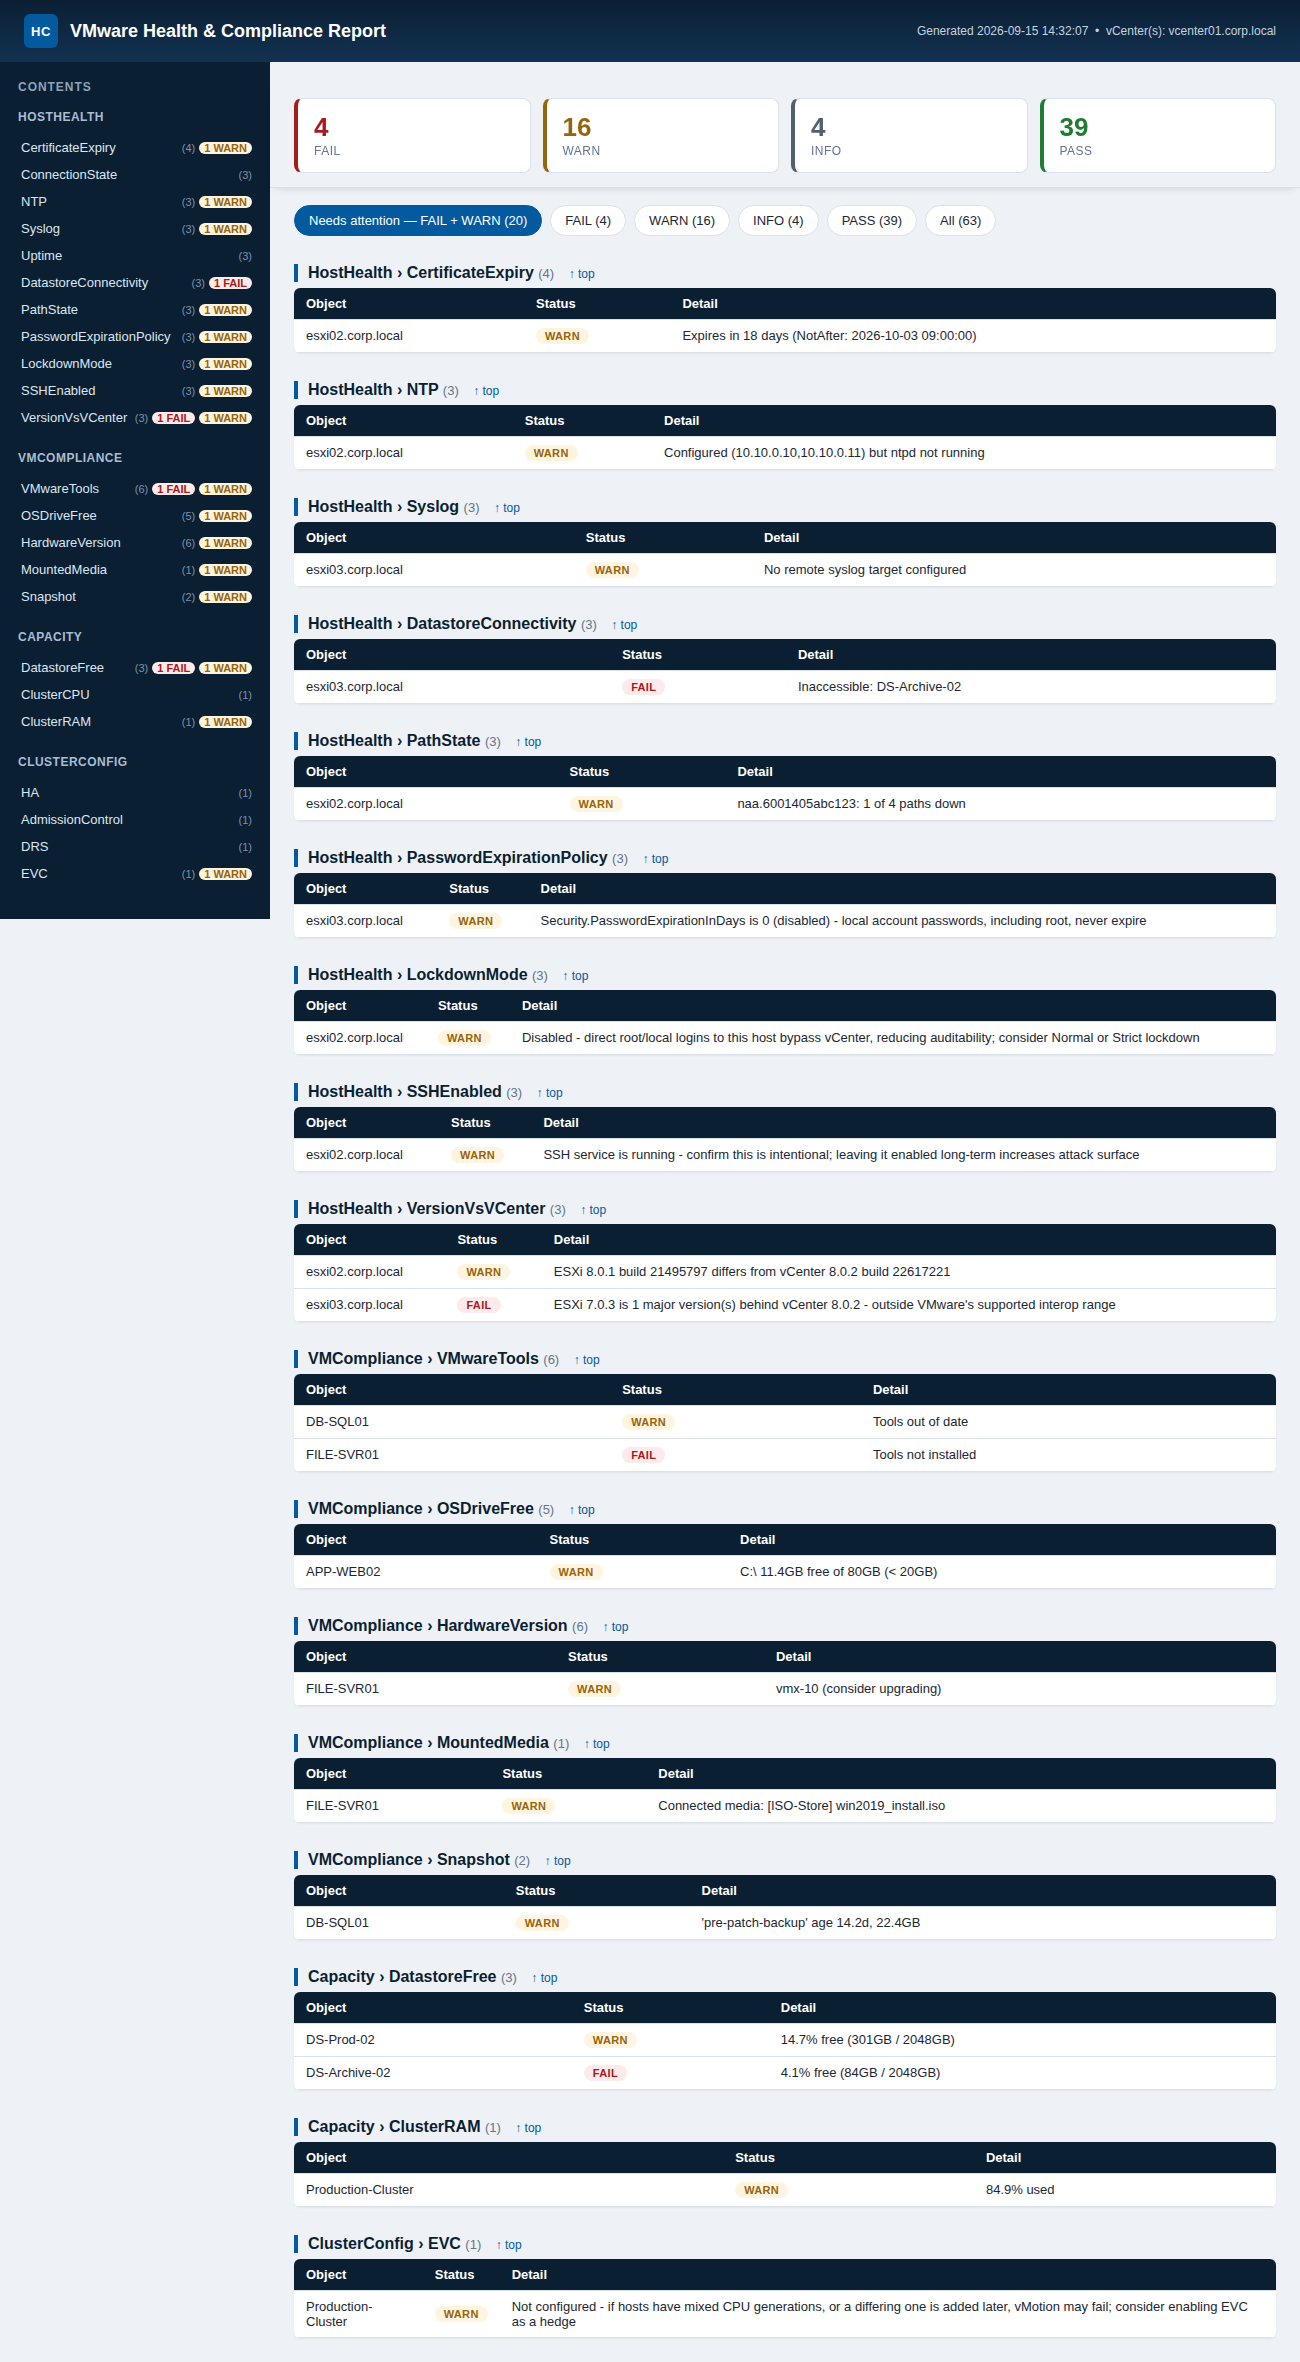
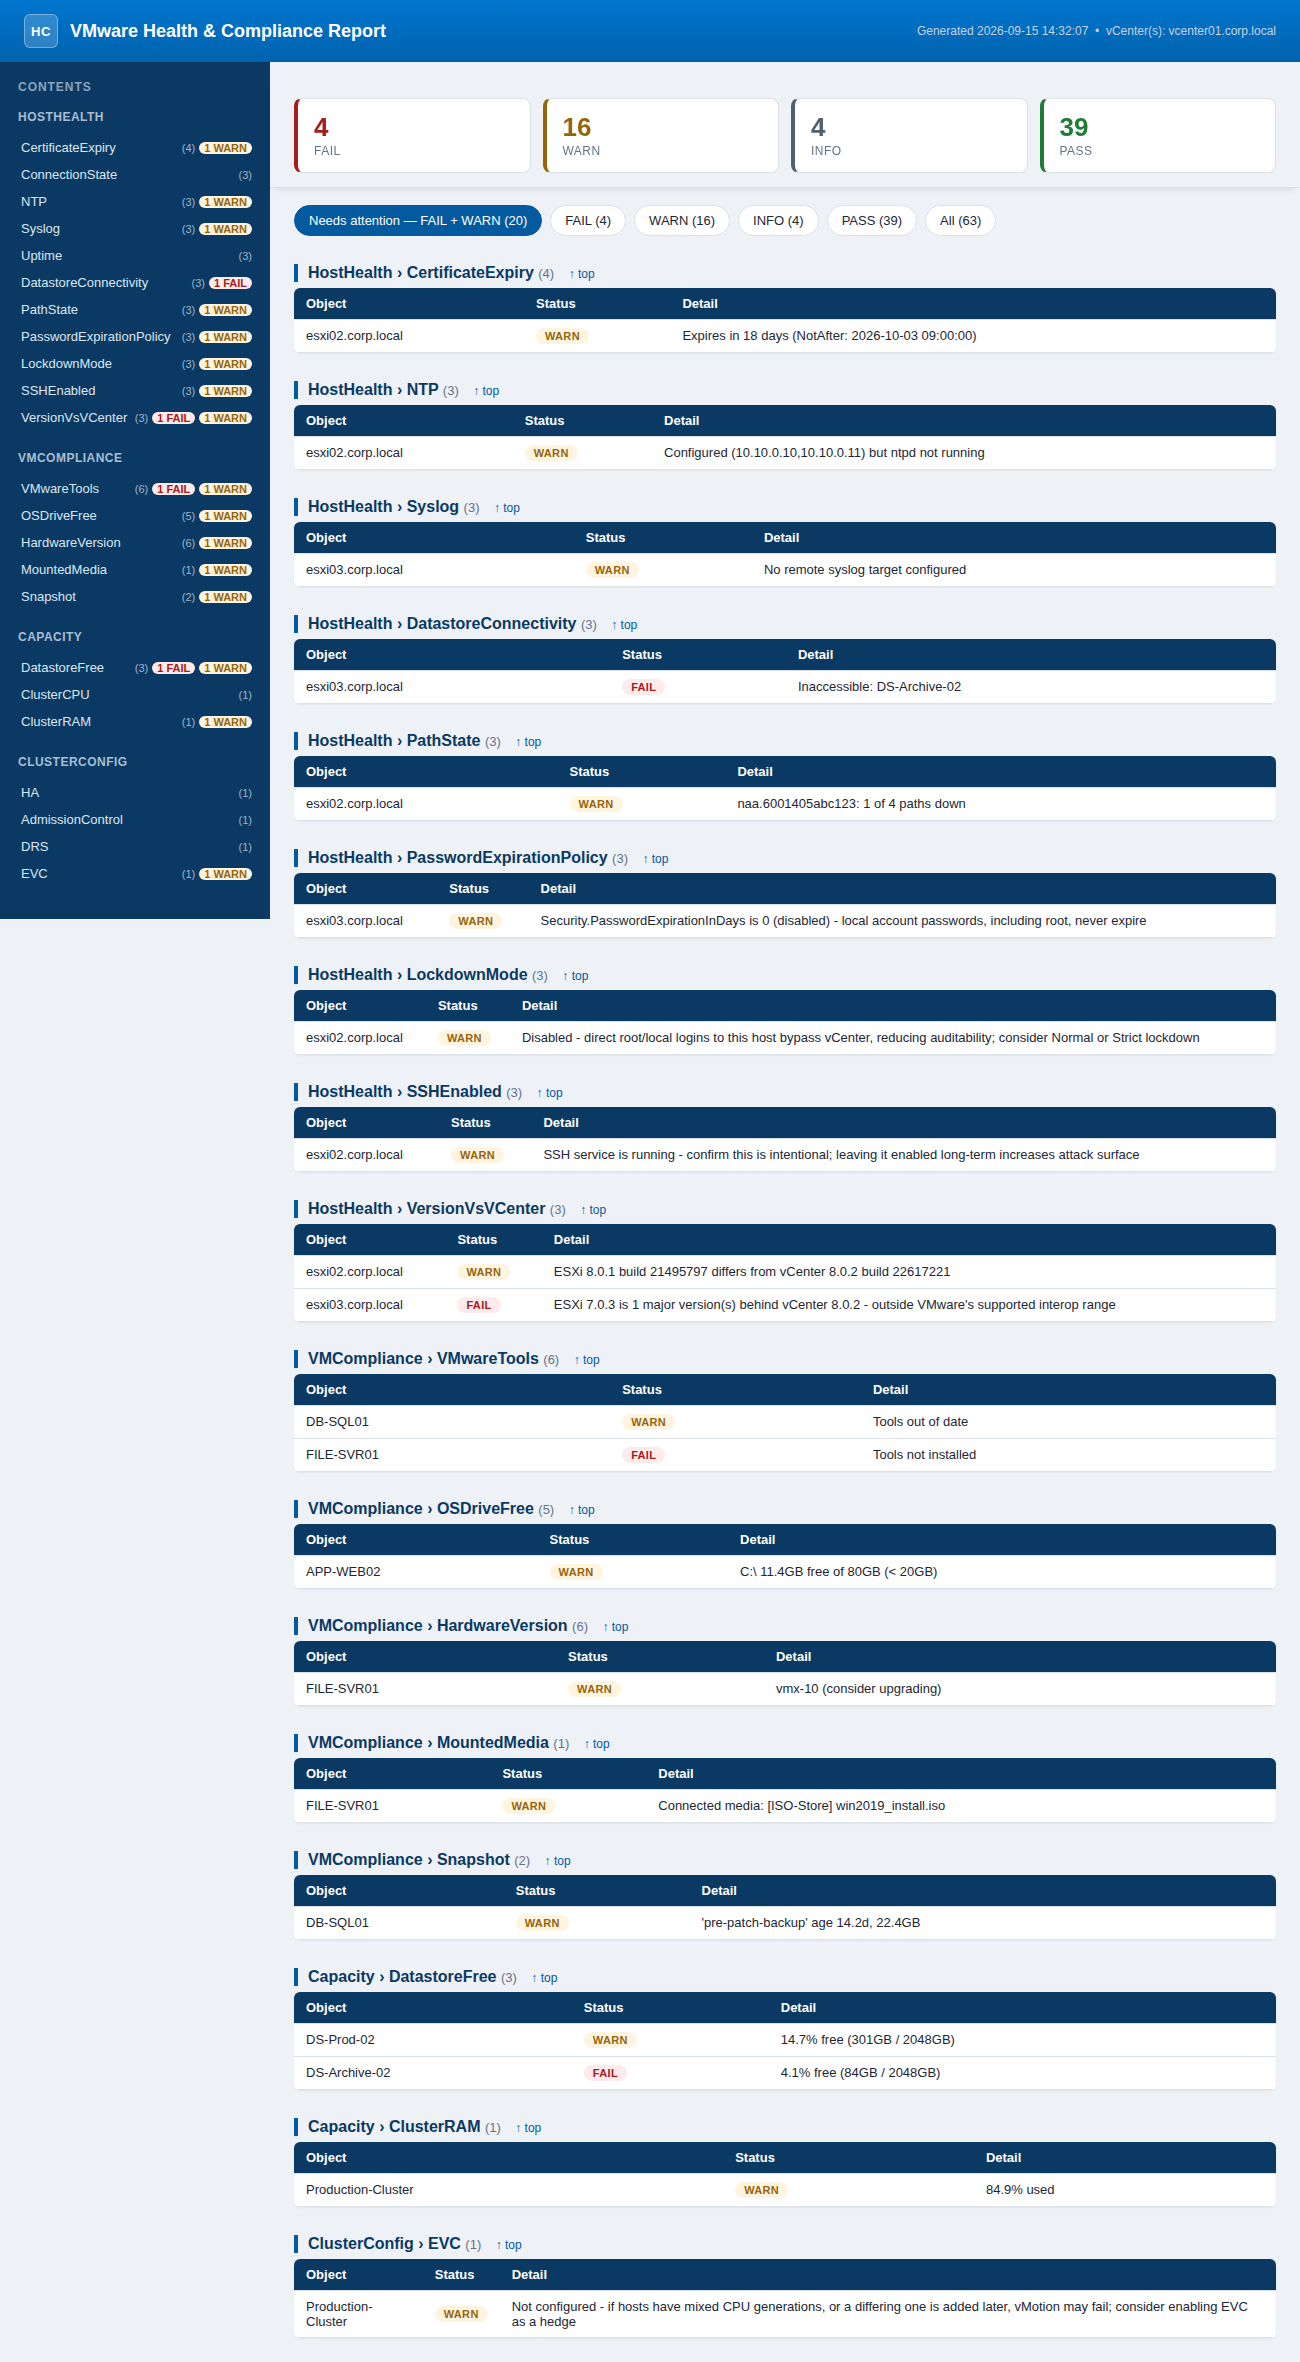
Reports: match the header blue to the iDRAC 10 console
The header was a near-black navy rather than the Dell blue the iDRAC UI
actually uses, so the reports only loosely resembled the console they were
modelled on.

Sampled the blue from a photo of the iDRAC 10 login banner: the field
clusters at #006EB6-#1B72B7, which brackets Dell's brand blue #0076CE. A
photo of an LCD carries moire and a colour cast and is not colorimetrically
exact, so the brand value is used rather than the averaged sample.

Palette:

  --brand   #0076ce  Dell blue, large surfaces (the header gradient)
  --brand-2 #0062ad  gradient end
  --navy    #0a3a63  deepened from #0b1f33, same hue family, so the sidebar
                     and table headers read as Dell blue not near-black
  --navy-2  #10497a  sidebar hover
  --accent  #045a9e  unchanged

--brand is deliberately not used for text. It measures 4.14:1 against the
page background, under the 4.5:1 needed for body-size text, so links and
small text keep the darker --accent at 6.26:1. Every pair was measured
rather than eyeballed; the two that failed were fixed rather than shipped:

  - the sidebar's muted grey #7c93ab fell to 3.68:1 on the lighter
    background, so it moves to #9fb4c9 (5.48:1)
  - the brand badge was a solid --accent square that went muddy on the
    bright banner, so it becomes a translucent white mark, the way the
    iDRAC banner puts its logo straight on the blue

Everything else clears AA: white on the banner 4.68:1, white on the
[…]

diff --git a/README.md b/README.md
@@ -185,7 +185,7 @@ Add ~10-30s for the initial PowerCLI module import. As long as `PASS`/`WARN` lin
 
 Both carry the columns **Category, Object, Check, Status, Detail**, and are written in a `finally` block — so you still get a report even if the run errors partway through. Pass `-ReportPath C:\Reports` to keep output in a fixed location instead of wherever you launched from.
 
-The HTML report uses a **dashboard-style layout** — a dark navy header and left navigation sidebar, a blue accent color, and status pill badges (`PASS`/`WARN`/`FAIL`/`INFO`), similar in feel to a Dell iDRAC or OpenManage console. Color-coded **stat tiles** at the top (Fail / Warn / Info / Pass counts) are clickable and double as the severity filter — and they **stay frozen at the top of the page** like a spreadsheet header row, so the filter stays reachable from anywhere in a long report instead of forcing a scroll back up — alongside the same **`Needs attention`, `FAIL`, `WARN`, `INFO`, `PASS`, `All`** filter buttons — the report opens pre-filtered to `FAIL` + `WARN` (what needs fixing), so you can drill straight to the problems instead of scrolling past everything that passed.
+The HTML report uses a **dashboard-style layout** — a Dell-blue header bar matched to the iDRAC 10 console, a deeper blue left navigation sidebar in the same hue family, and status pill badges (`PASS`/`WARN`/`FAIL`/`INFO`), similar in feel to a Dell iDRAC or OpenManage console. Color-coded **stat tiles** at the top (Fail / Warn / Info / Pass counts) are clickable and double as the severity filter — and they **stay frozen at the top of the page** like a spreadsheet header row, so the filter stays reachable from anywhere in a long report instead of forcing a scroll back up — alongside the same **`Needs attention`, `FAIL`, `WARN`, `INFO`, `PASS`, `All`** filter buttons — the report opens pre-filtered to `FAIL` + `WARN` (what needs fixing), so you can drill straight to the problems instead of scrolling past everything that passed.
 
 Results are also broken into **per-check sections** (e.g. *VMware Tools*, *Hardware Version*, *Mounted ISOs*, *Snapshots*, *NTP*, *Datastore Free*), each in its own table. The left **sidebar** lists every section grouped by category with per-section counts and `FAIL`/`WARN` badges — the **whole row is the link**, name and count and badges alike, so clicking the number works the same as clicking the title and jumps straight to that table. Severity filtering and section navigation work together: under a filter, sections with no matching rows are hidden automatically, and clicking a sidebar link reveals the target. (The CSV stays complete and unfiltered for trending; open it in Excel and use AutoFilter on the Status column for the same effect.)
 
